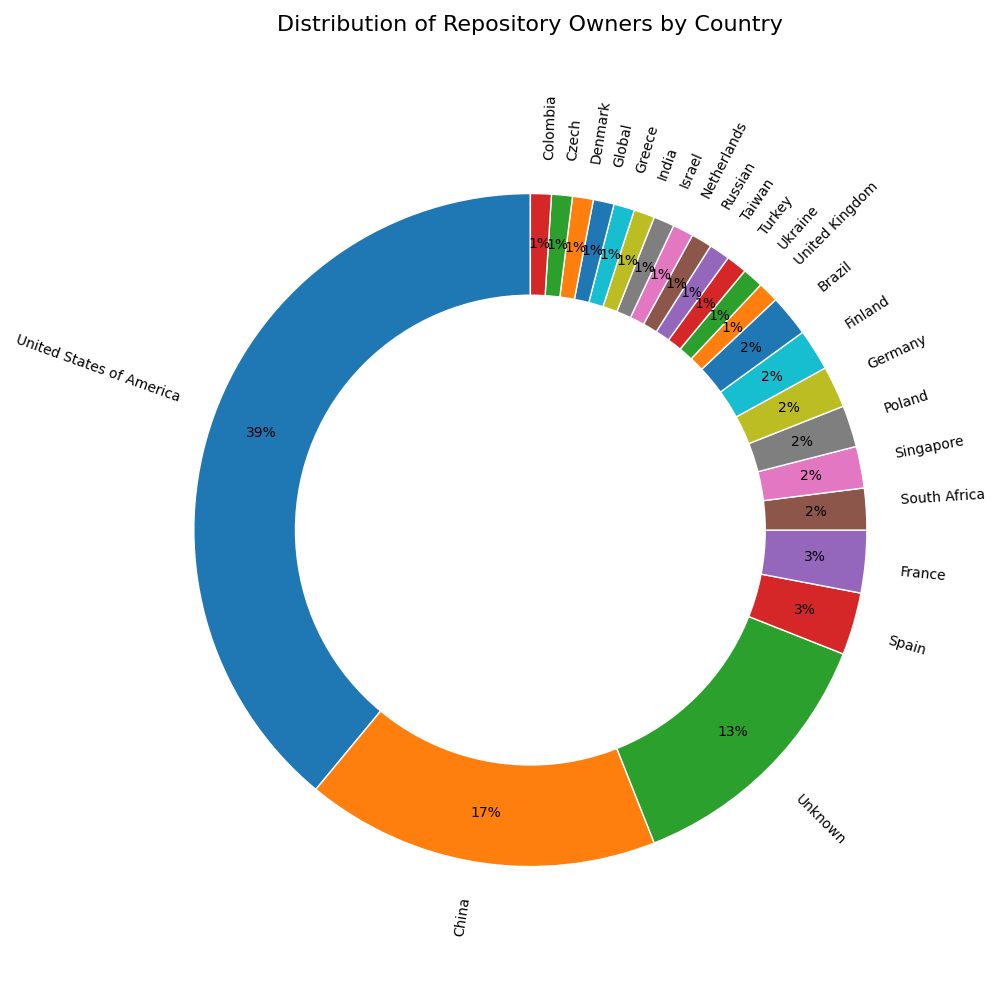
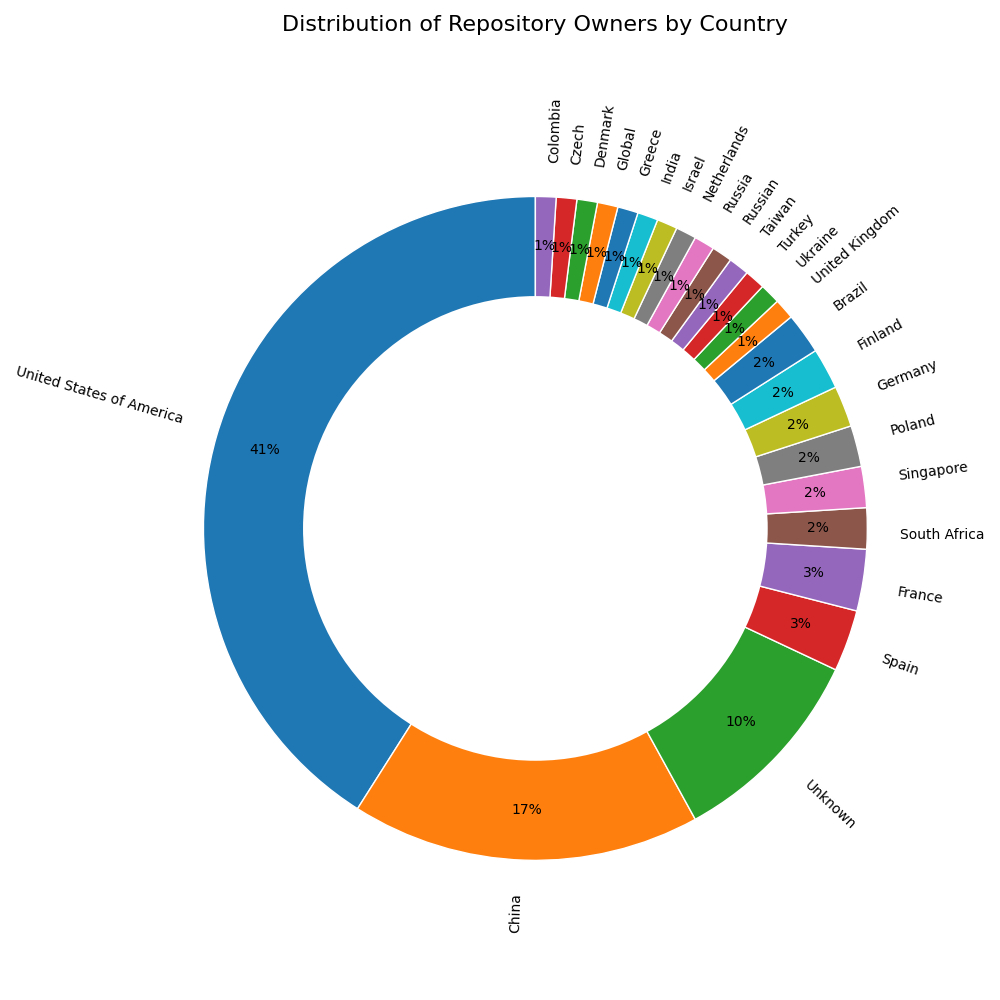
added_pie

diff --git a/README.md b/README.md
@@ -37,9 +37,9 @@
 | 30 | [n8n](https://github.com/n8n-io/n8n) | 168530 | 53482 | TypeScript | 480 | Fair-code workflow automation platform with native AI capabilities. Combine visual building with custom code, self-host or cloud, 400+ integrations. | 2026-01-13T00:34:10Z | Org | Germany |
 | 31 | [awesome-go](https://github.com/avelino/awesome-go) | 162390 | 12898 | Go | 10 | A curated list of awesome Go frameworks, libraries and software | 2026-01-12T03:31:18Z | User | Unknown |
 | 32 | [Microsoft-Activation-Scripts](https://github.com/massgravel/Microsoft-Activation-Scripts) | 162385 | 15653 | Batchfile | 2 | Open-source Windows and Office activator featuring HWID, Ohook, TSforge, and Online KMS activation methods, along with advanced troubleshooting. | 2025-12-12T20:29:43Z | Org | United States of America |
-| 33 | [stable-diffusion-webui](https://github.com/AUTOMATIC1111/stable-diffusion-webui) | 159880 | 29774 | Python | 2390 | Stable Diffusion web UI | 2025-12-18T14:41:34Z | User | Unknown |
-| 34 | [the-art-of-command-line](https://github.com/jlevy/the-art-of-command-line) | 159436 | 14763 | None | 122 | Master the command line, in one page | 2024-06-25T18:13:44Z | User | Unknown |
-| 35 | [ollama](https://github.com/ollama/ollama) | 159309 | 14140 | Go | 1893 | Get up and running with OpenAI gpt-oss, DeepSeek-R1, Gemma 3 and other models. | 2026-01-13T03:53:06Z | Org | Unknown |
+| 33 | [stable-diffusion-webui](https://github.com/AUTOMATIC1111/stable-diffusion-webui) | 159880 | 29774 | Python | 2390 | Stable Diffusion web UI | 2025-12-18T14:41:34Z | User | Russia |
+| 34 | [the-art-of-command-line](https://github.com/jlevy/the-art-of-command-line) | 159436 | 14763 | None | 122 | Master the command line, in one page | 2024-06-25T18:13:44Z | User | United States of America |
+| 35 | [ollama](https://github.com/ollama/ollama) | 159309 | 14140 | Go | 1893 | Get up and running with OpenAI gpt-oss, DeepSeek-R1, Gemma 3 and other models. | 2026-01-13T03:53:06Z | Org | United States of America |
 | 36 | [transformers](https://github.com/huggingface/transformers) | 154979 | 31713 | Python | 1072 | 🤗 Transformers: the model-definition framework for state-of-the-art machine learning models in text, vision, audio, and multimodal models, for both inference and training. | 2026-01-13T01:11:49Z | Org | France |
 | 37 | [JavaGuide](https://github.com/Snailclimb/JavaGuide) | 153420 | 46093 | Java | 74 | Java 学习&面试指南（Go、Python 后端面试通用,计算机基础面试总结）。准备后端技术面试，首选 JavaGuide！ | 2026-01-12T08:57:00Z | User | China |
 | 38 | [javascript](https://github.com/airbnb/javascript) | 148023 | 26773 | JavaScript | 100 | JavaScript Style Guide | 2025-11-06T00:54:14Z | Org | United States of America |
